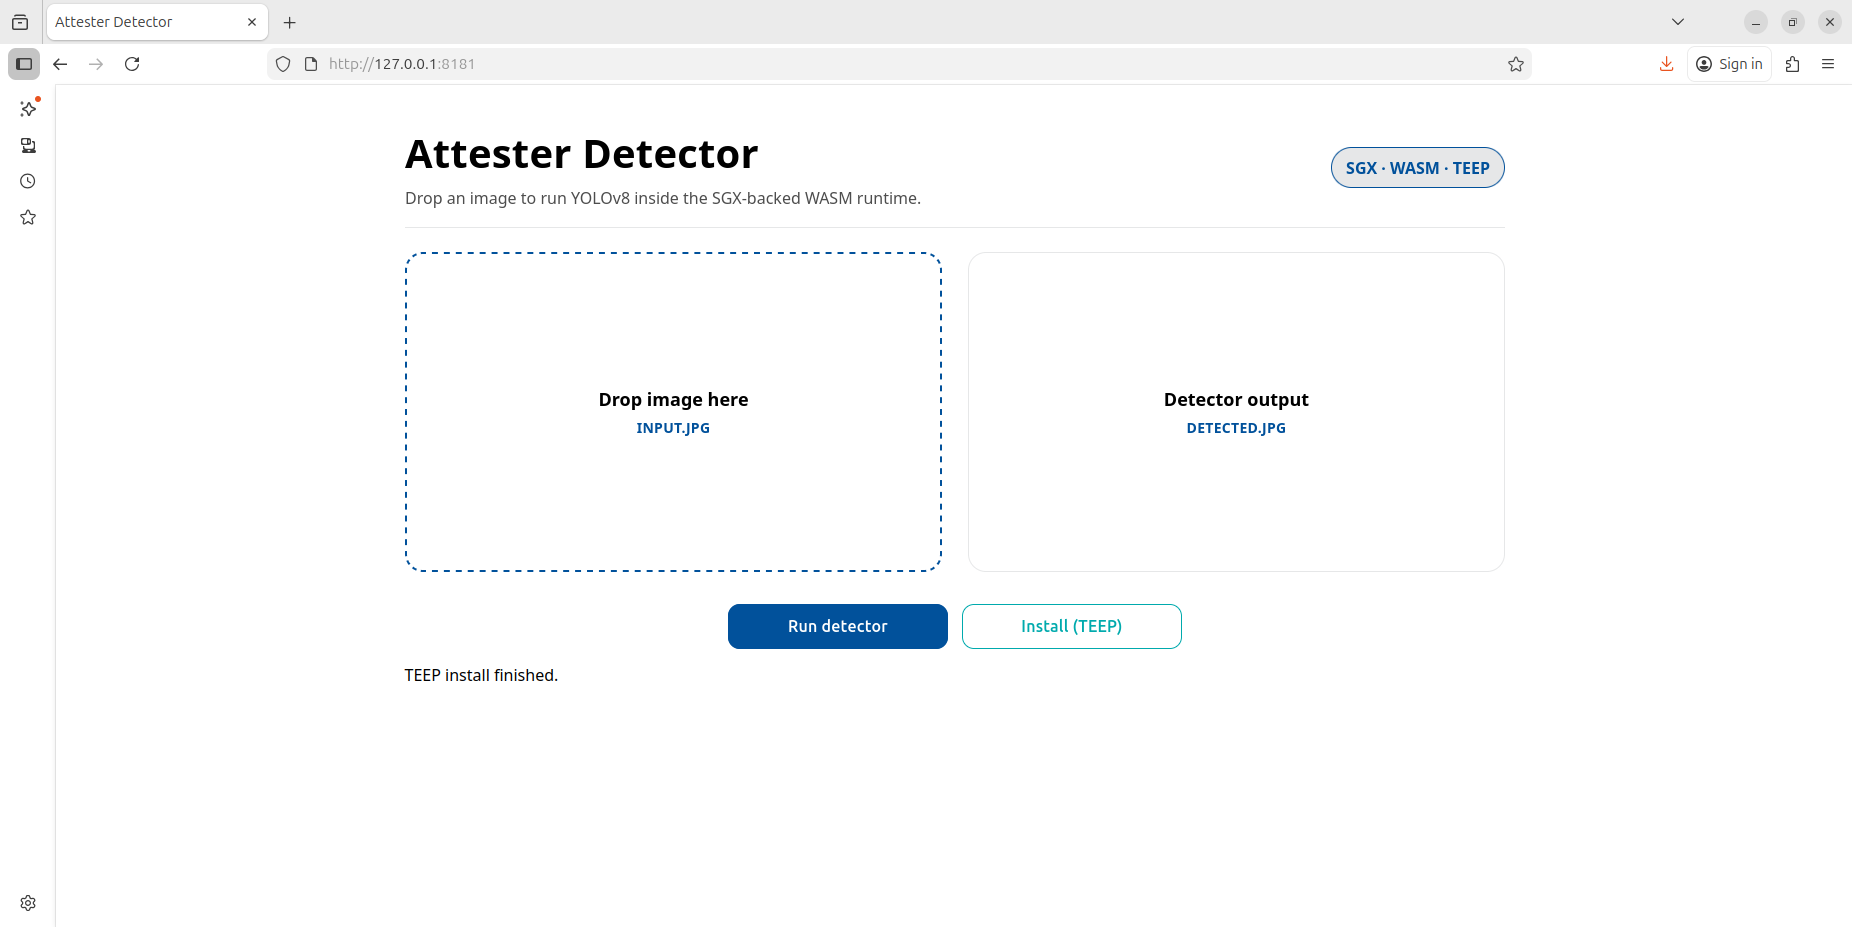
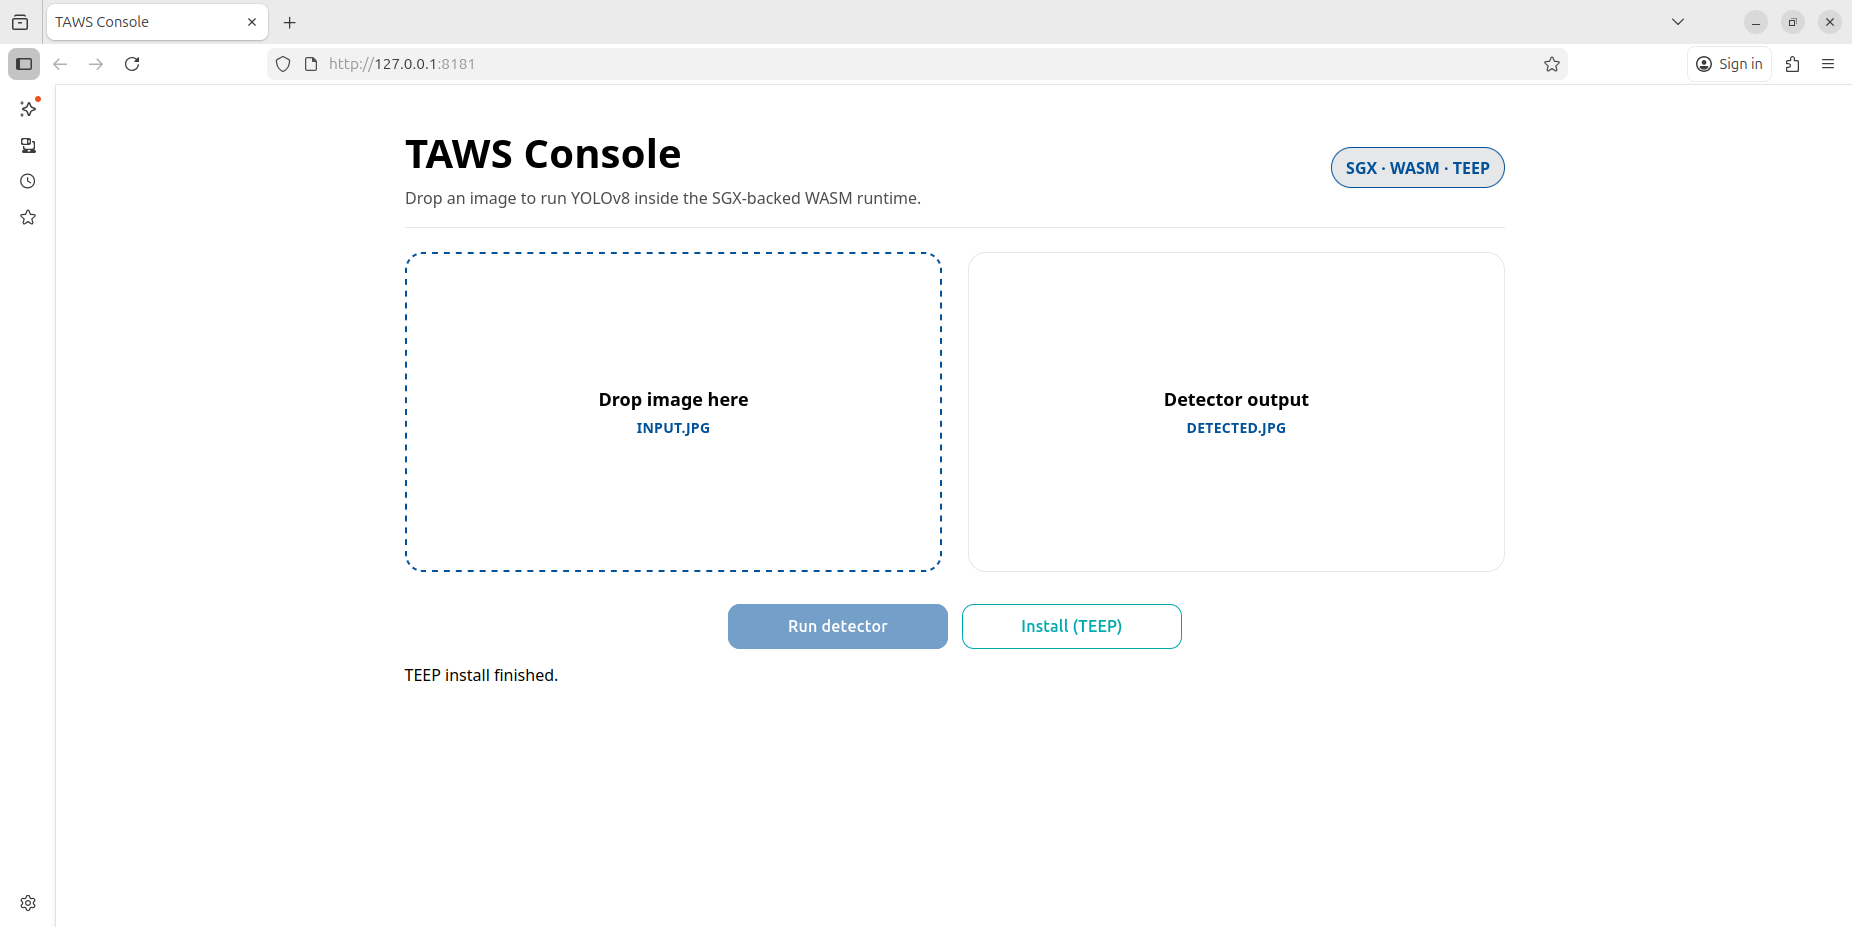
fix web-ui

Changed region(s): [[0.3693, 0.6343, 0.5232, 0.7249], [0.2154, 0.151, 0.4309, 0.1812], [0.0308, 0.0, 0.0923, 0.0302]]

diff --git a/yolov8-frontend/web_template.html b/yolov8-frontend/web_template.html
@@ -10,7 +10,7 @@
 <head>
   <meta charset="utf-8" />
   <meta name="viewport" content="width=device-width, initial-scale=1" />
-  <title>Attester Detector</title>
+  <title>TAWS Console</title>
   <style>
     :root {
       --blue: #01519b;
@@ -191,7 +191,7 @@
   <main class="app">
     <header class="hero fade-up">
       <div>
-        <h1>Attester Detector</h1>
+        <h1>TAWS Console</h1>
         <p>Drop an image to run YOLOv8 inside the SGX-backed WASM runtime.</p>
       </div>
       <div class="badge">SGX · WASM · TEEP</div>
@@ -226,6 +226,7 @@
     const runBtn = document.getElementById('runBtn');
     const installBtn = document.getElementById('installBtn');
     const status = document.getElementById('status');
+    const maxDetectUploadBytes = 128 * 1024;
 
     let selectedFile = null;
     let teepActivated = false;
@@ -242,6 +243,10 @@
     function handleFile(file) {
       if (!file || !file.type.startsWith('image/')) {
         setStatus('Please provide an image file.', true);
+        return;
+      }
+      if (file.size > maxDetectUploadBytes) {
+        setStatus('Image upload too large. Current limit: 128 KiB.', true);
         return;
       }
       selectedFile = file;
@@ -279,6 +284,10 @@
 
     runBtn.addEventListener('click', async () => {
       if (!selectedFile) return;
+      if (selectedFile.size > maxDetectUploadBytes) {
+        setStatus('Image upload too large. Current limit: 128 KiB.', true);
+        return;
+      }
       setStatus('Running detector...', false);
       runBtn.disabled = true;
       try {
@@ -289,7 +298,8 @@
           body: formData,
         });
         if (!response.ok) {
-          throw new Error(`Request failed: ${response.status}`);
+          const message = (await response.text()).trim();
+          throw new Error(message || `Request failed: ${response.status}`);
         }
         const blob = await response.blob();
         outputPreview.src = URL.createObjectURL(blob);
@@ -297,7 +307,11 @@
         setStatus('Detection complete.', false);
       } catch (err) {
         console.error(err);
-        setStatus('Detection failed. Check server logs.', true);
+        if (err.message && err.message.includes('NetworkError')) {
+          setStatus('Detection failed before a response was received. If the image is large, try a file under 128 KiB.', true);
+        } else {
+          setStatus(err.message || 'Detection failed.', true);
+        }
       } finally {
         runBtn.disabled = false;
       }
@@ -309,7 +323,8 @@
       try {
         const response = await fetch('/teep', { method: 'POST' });
         if (!response.ok) {
-          throw new Error(`Install failed: ${response.status}`);
+          const message = (await response.text()).trim();
+          throw new Error(message || `Install failed: ${response.status}`);
         }
         const message = (await response.text()).trim();
         if (message === 'The device has been activated. You can install the app.') {
@@ -319,7 +334,13 @@
         setStatus(message || 'TEEP install finished.', false);
       } catch (err) {
         console.error(err);
-        setStatus('TEEP install failed. Check server logs.', true);
+        const message = err.message === 'install failed'
+          ? (teepActivated ? 'TEEP install failed.' : 'TEEP activation failed.')
+          : err.message;
+        setStatus(
+          message || (teepActivated ? 'TEEP install failed.' : 'TEEP activation failed.'),
+          true
+        );
       } finally {
         installBtn.disabled = false;
       }

diff --git a/doc/USER_MANUAL.md b/doc/USER_MANUAL.md
@@ -38,12 +38,15 @@ Default URL:
 
 Web page:
 - Open the Web UI URL to display the initial screen. Click `Activate (TEEP)` first to register the device with the TAM. After successful activation, the button changes to `Install (TEEP)` so that the detector Wasm app can be installed.
+
 ![Web-UI-1](images/screen_1.png)
 
 - Click `Install (TEEP)` to start installation of the detector Wasm app.
+
 ![Web-UI-2](images/screen_2.png)
 
 - After installation, select an input image and click `Run detector` to process the image and display the annotated result.
+
 ![Web-UI-3](images/screen_3.png)
 
 
@@ -51,7 +54,7 @@ Notes:
 - The current `detector-yolov8` Wasm app expects JPEG input.
 - `POST /detect` currently rejects uploads larger than `128 KiB`.
 - Detection cost is affected not only by image dimensions but also by image content such as scene complexity, noise, and the number of candidate objects.
-- In the current SGX/WAMR-based execution environment, some JPEG images may fail during inference even when their file size is small. If detection fails, first try a simpler image.
+- In the current SGX/WAMR-based execution environment, some JPEG images may fail during inference even when their file size is small. If detection fails, restart the application and try a simpler image.
 
 ## CLI Usage
 Start CLI: